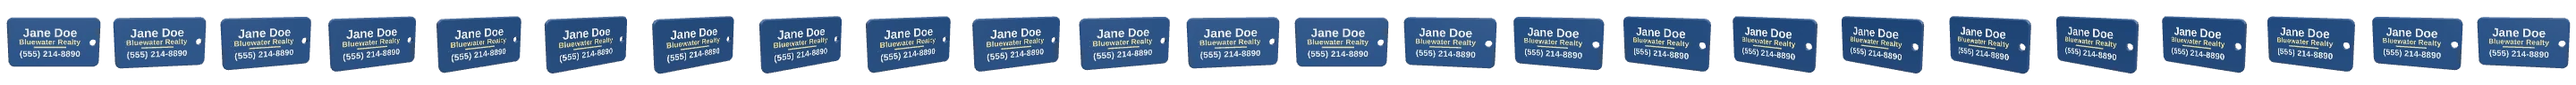
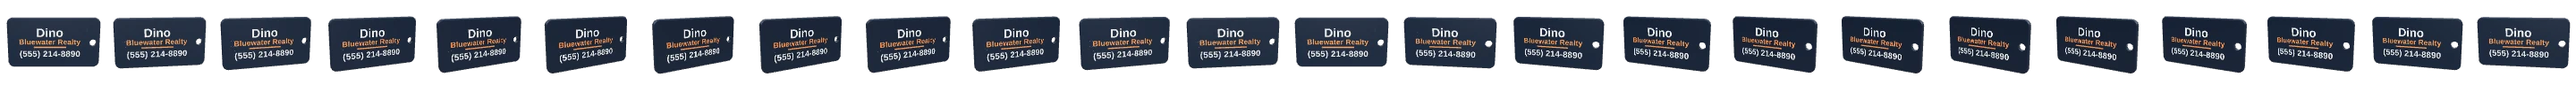
Start every shape as Dino, in printyours.ca's colours
The default name is Dino, and each shape starts in the site's palette --
ink navy #0c1a2e, paper white #f5f2ec, flame orange #ff5b1f -- arranged
for that shape: a printyours fob preset (now the default), flame letters
on an ink keyring, paper-lit letters through an ink sign, a flame
stencil, and an ink pet tag with its number in flame. The phone case page
gets a printyours palette (ink, flame, paper, sky) as its default, kept in
case_app.py so the vendored phonecase package is untouched.

The brand colours are spools on the shelf in every material, so the
pickers keep them rather than snapping them to the nearest other spool;
the fob's pattern uses Navy, now on the PLA and TPU shelves too. The tile
icons are re-rendered to match.

Claude-Session: https://claude.ai/code/session_01PeehgHdDDPF9HxDfvra4HT

diff --git a/public/index.html b/public/index.html
@@ -460,7 +460,7 @@
 
   <section>
     <h2 id="who">2 &middot; Who you are</h2>
-    <label class="field" data-light="name"><span id="name_label">Name</span><input type="text" id="name" value="Jane Doe" autocomplete="off"></label>
+    <label class="field" data-light="name"><span id="name_label">Name</span><input type="text" id="name" value="Dino" autocomplete="off"></label>
     <label class="field" data-for="fob" data-light="company"><span>Company</span><input type="text" id="company" value="Bluewater Realty" autocomplete="off"></label>
     <label class="field" data-for="fob" data-light="role"><span>Title</span><input type="text" id="role" value="" autocomplete="off" placeholder="Senior Agent"></label>
     <label class="field" data-for="fob pet" data-light="phone"><span>Phone</span><input type="text" id="phone" value="(555) 214-8890" autocomplete="off"></label>
@@ -665,10 +665,10 @@
        it ready to print. Edit the file when a spool arrives or runs out.</p>
     <div class="field"><span id="exact_label">Colours</span>
       <div class="swatches">
-        <label data-light="c0"><input type="color" id="c0" value="#141414">Body</label>
-        <label data-light="c1"><input type="color" id="c1" value="#2e2e2e">Pattern</label>
-        <label data-light="c2"><input type="color" id="c2" value="#f2f2f2">Primary</label>
-        <label data-light="c3"><input type="color" id="c3" value="#9a9a9a">Secondary</label>
+        <label data-light="c0"><input type="color" id="c0" value="#0c1a2e">Body</label>
+        <label data-light="c1"><input type="color" id="c1" value="#1f3a5f">Pattern</label>
+        <label data-light="c2"><input type="color" id="c2" value="#f5f2ec">Primary</label>
+        <label data-light="c3"><input type="color" id="c3" value="#ff5b1f">Secondary</label>
       </div>
     </div>
     <p class="hint" data-for="fob">Every colour is an inlay in one thin face layer &mdash; the first 0.6 mm of each
@@ -735,7 +735,7 @@
     <h2 data-for="name pet stencil sign">4 &middot; A batch of them</h2>
     <label class="field"><span>One person per line</span>
       <textarea id="batch" rows="4" spellcheck="false"
-        placeholder="Jane Doe, Bluewater Realty, (555) 214-8890, https://...&#10;Sam Lee, Bluewater Realty, (555) 214-8891"></textarea>
+        placeholder="Dino, Bluewater Realty, (555) 214-8890, https://...&#10;Sam Lee, Bluewater Realty, (555) 214-8891"></textarea>
     </label>
     <p class="hint" data-for="fob">Name, company, phone, link &mdash; commas or tabs, so a spreadsheet
        pastes straight in. The title and email above are shared by the whole batch. While there is
@@ -991,6 +991,7 @@ const FACES = {
 const FACE_GROUPS = ["Plain", "Blackletter", "Ornate", "Western", "Horror", "Dimensional",
                      "Comic", "Stencil", "Retro", "Tech"];
 const PRESETS = {
+  printyours: ["printyours — ink navy, paper lettering, flame accents", "cubes", "centred", ["#0c1a2e", "#1f3a5f", "#f5f2ec", "#ff5b1f"]],
   printlab:  ["Print Lab — black, white lettering, cubes", "cubes", "centred", ["#141414", "#2e2e2e", "#f2f2f2", "#9a9a9a"]],
   student:   ["Student — dark card, name top left, address bottom right", "plain", "student", ["#1b2430", "#2a3644", "#f4f6f8", "#9fb0c0"]],
   corporate: ["Corporate — navy, big disc, hexagons along the bottom", "badge", "corporate", ["#141d3a", "#22305c", "#ffffff", "#c8cede"]],
@@ -2069,6 +2070,15 @@ function shapeChosen() {
   if (word && +rise.value === 0) { rise.value = 1.2; rise.dispatchEvent(new Event("input")); }
   if (!word && +rise.value === 1.2) { rise.value = 0; rise.dispatchEvent(new Event("input")); }
 }
+/* Each shape's starting colours: body, pattern, primary, secondary. */
+const INK = "#0c1a2e", INK_LIGHT = "#1f3a5f", PAPER = "#f5f2ec", FLAME = "#ff5b1f";
+const KIND_COLOURS = {
+  fob:     [INK, INK_LIGHT, PAPER, FLAME],
+  name:    [INK, INK, FLAME, FLAME],
+  pet:     [INK, FLAME, PAPER, FLAME],
+  sign:    [INK, INK, PAPER, PAPER],
+  stencil: [FLAME, FLAME, FLAME, FLAME],
+};
 for (const tile of document.querySelectorAll(".tile"))
   tile.addEventListener("click", () => {
     if ($("kind").value === tile.dataset.kind) return;
@@ -2076,10 +2086,13 @@ for (const tile of document.querySelectorAll(".tile"))
     for (const t of document.querySelectorAll(".tile"))
       t.setAttribute("aria-pressed", String(t === tile));
     shapeChosen();
-    // A pet tag starts navy with white and yellow lettering: contrast enough
-    // for a phone number at arm's length, before anybody picks their own.
-    if (tile.dataset.kind === "pet")
-      ["#1f3a5f", "#f2c14e", "#f4f4f1", "#f2c14e"].forEach((c, i) => { $(COLOURS[i]).value = c; });
+    // Every shape starts in printyours.ca's colours -- ink navy, paper white,
+    // flame orange -- arranged for that shape: a pet tag's phone number in
+    // flame on ink, a keyring's letters in flame on an ink outline, a sign lit
+    // paper-white through ink.
+    const start = KIND_COLOURS[tile.dataset.kind];
+    if (start) start.forEach((c, i) => { $(COLOURS[i]).value = c; });
+    if (tile.dataset.kind === "fob") $("preset").value = "printyours";
     materialFor();
     queue();
   });

diff --git a/public/case.html b/public/case.html
@@ -1275,9 +1275,9 @@ $("palette").addEventListener("change", () => { setPalette($("palette").value); 
     ({ id: p.id, label: `${p.name} (${p.tools} slots)` })), "bambu-p1s-ams");
   fillSelect($("filament"), catalogue.filaments.map(f => ({ id: f.id, label: f.id })), "pla");
   fillSelect($("palette"), Object.keys(catalogue.palettes).map(k =>
-    ({ id: k, label: `${k} (${catalogue.palettes[k].length})` })), "primary");
+    ({ id: k, label: `${k} (${catalogue.palettes[k].length})` })), "printyours");
   fitTiles(catalogue.cases);
-  setPalette("primary");
+  setPalette("printyours");
   cameraDefaults();
   foldSummaries();
   rebuild();

diff --git a/src/gen_tile_icons.py b/src/gen_tile_icons.py
@@ -44,20 +44,23 @@ SWAY = 0.55          # radians either side of straight on
 # What each tile shows, and in which colours: slot -> hex, in cards.SLOTS order
 # (body, pattern, primary, secondary).  `glow` slots are lit from inside --
 # the sign's letters.
+# printyours.ca's colours, which every shape on the page also starts in.
+INK, INK_LIGHT, PAPER, FLAME = "#0c1a2e", "#1f3a5f", "#f5f2ec", "#ff5b1f"
+
 ICONS = {
-    "fob":     dict(build=lambda: cards.build("fob", name="Jane Doe",
+    "fob":     dict(build=lambda: cards.build("fob", name="Dino",
                                               company="Bluewater Realty",
                                               phone="(555) 214-8890", tag_mode="pocket"),
-                    colours=("#1f3a5f", "#2a4a75", "#f4f4f1", "#f2c14e")),
-    "name":    dict(build=lambda: nametag.build("Ruby"),
-                    colours=("#1f3a5f", "#1f3a5f", "#f2c14e", "#f2c14e")),
-    "pet":     dict(build=lambda: pettag.build("Biscuit", phone="(555) 214-8890",
+                    colours=(INK, INK_LIGHT, PAPER, FLAME)),
+    "name":    dict(build=lambda: nametag.build("Dino"),
+                    colours=(INK, INK, FLAME, FLAME)),
+    "pet":     dict(build=lambda: pettag.build("Dino", phone="(555) 214-8890",
                                                shape="bone"),
-                    colours=("#1f3a5f", "#f2c14e", "#f4f4f1", "#f2c14e"), ring=True),
+                    colours=(INK, FLAME, PAPER, FLAME), ring=True),
     "sign":    dict(build=lambda: signbox.build("OPEN", lid=False),
-                    colours=("#2b2f36", "#2b2f36", "#fff1c9", "#fff1c9"), glow=("primary",)),
+                    colours=(INK, INK, PAPER, PAPER), glow=("primary",)),
     "stencil": dict(build=lambda: stencil.build("SHOP"),
-                    colours=("#e0a100", "#e0a100", "#e0a100", "#e0a100")),
+                    colours=(FLAME, FLAME, FLAME, FLAME)),
 }
 
 

diff --git a/src/looks.py b/src/looks.py
@@ -213,6 +213,10 @@ def pattern(name, w, h, clip, halo=None):
 # palettes: body, pattern, primary, secondary
 # ---------------------------------------------------------------------------
 PRESETS = {
+    # printyours.ca's own colours: ink navy, paper white, flame orange.
+    "printyours": dict(title="printyours -- ink navy, paper lettering, flame accents",
+                       pattern="cubes", layout="centred",
+                       colours=("#0c1a2e", "#1f3a5f", "#f5f2ec", "#ff5b1f")),
     "printlab": dict(title="Print Lab -- black, white lettering, cubes",
                      pattern="cubes", layout="centred",
                      colours=("#141414", "#2e2e2e", "#f2f2f2", "#9a9a9a")),
@@ -238,7 +242,7 @@ PRESETS = {
     "plain":    dict(title="Plain -- grey body, gold lettering, no pattern",
                      pattern="plain", layout="centred", colours=("#cfd3d6", "#cfd3d6", "#d9a441", "#d9a441")),
 }
-DEFAULT = "printlab"
+DEFAULT = "printyours"
 
 
 def rgb(hex_colour):

diff --git a/src/case_app.py b/src/case_app.py
@@ -60,6 +60,11 @@ PROVENANCE = "f7bf3c7"
 #: lower, limit; this one is about not buffering a payload to find out.
 MAX_BODY = 6 << 20
 
+#: printyours.ca's own colours, offered first and chosen by default.  Kept
+#: here rather than in phonecase.profiles, which is the vendored copy.
+HOUSE = {"printyours": Palette.parse(["#0c1a2e:ink", "#ff5b1f:flame",
+                                      "#f5f2ec:paper", "#5aa9e6:sky"])}
+
 #: Finer than this is invisible under a 0.42 mm line and costs seconds.
 MIN_RES = 0.3
 
@@ -408,7 +413,7 @@ def catalogue():
         "filaments": [{"id": k, "purge": v.purge_mm3, "nozzle": v.nozzle_temp}
                       for k, v in FILAMENTS.items()],
         "palettes": {k: [{"index": s.index, "name": s.name, "hex": s.hex}
-                         for s in v.slots] for k, v in PALETTES.items()},
+                         for s in v.slots] for k, v in {**HOUSE, **PALETTES}.items()},
     }
 
 
